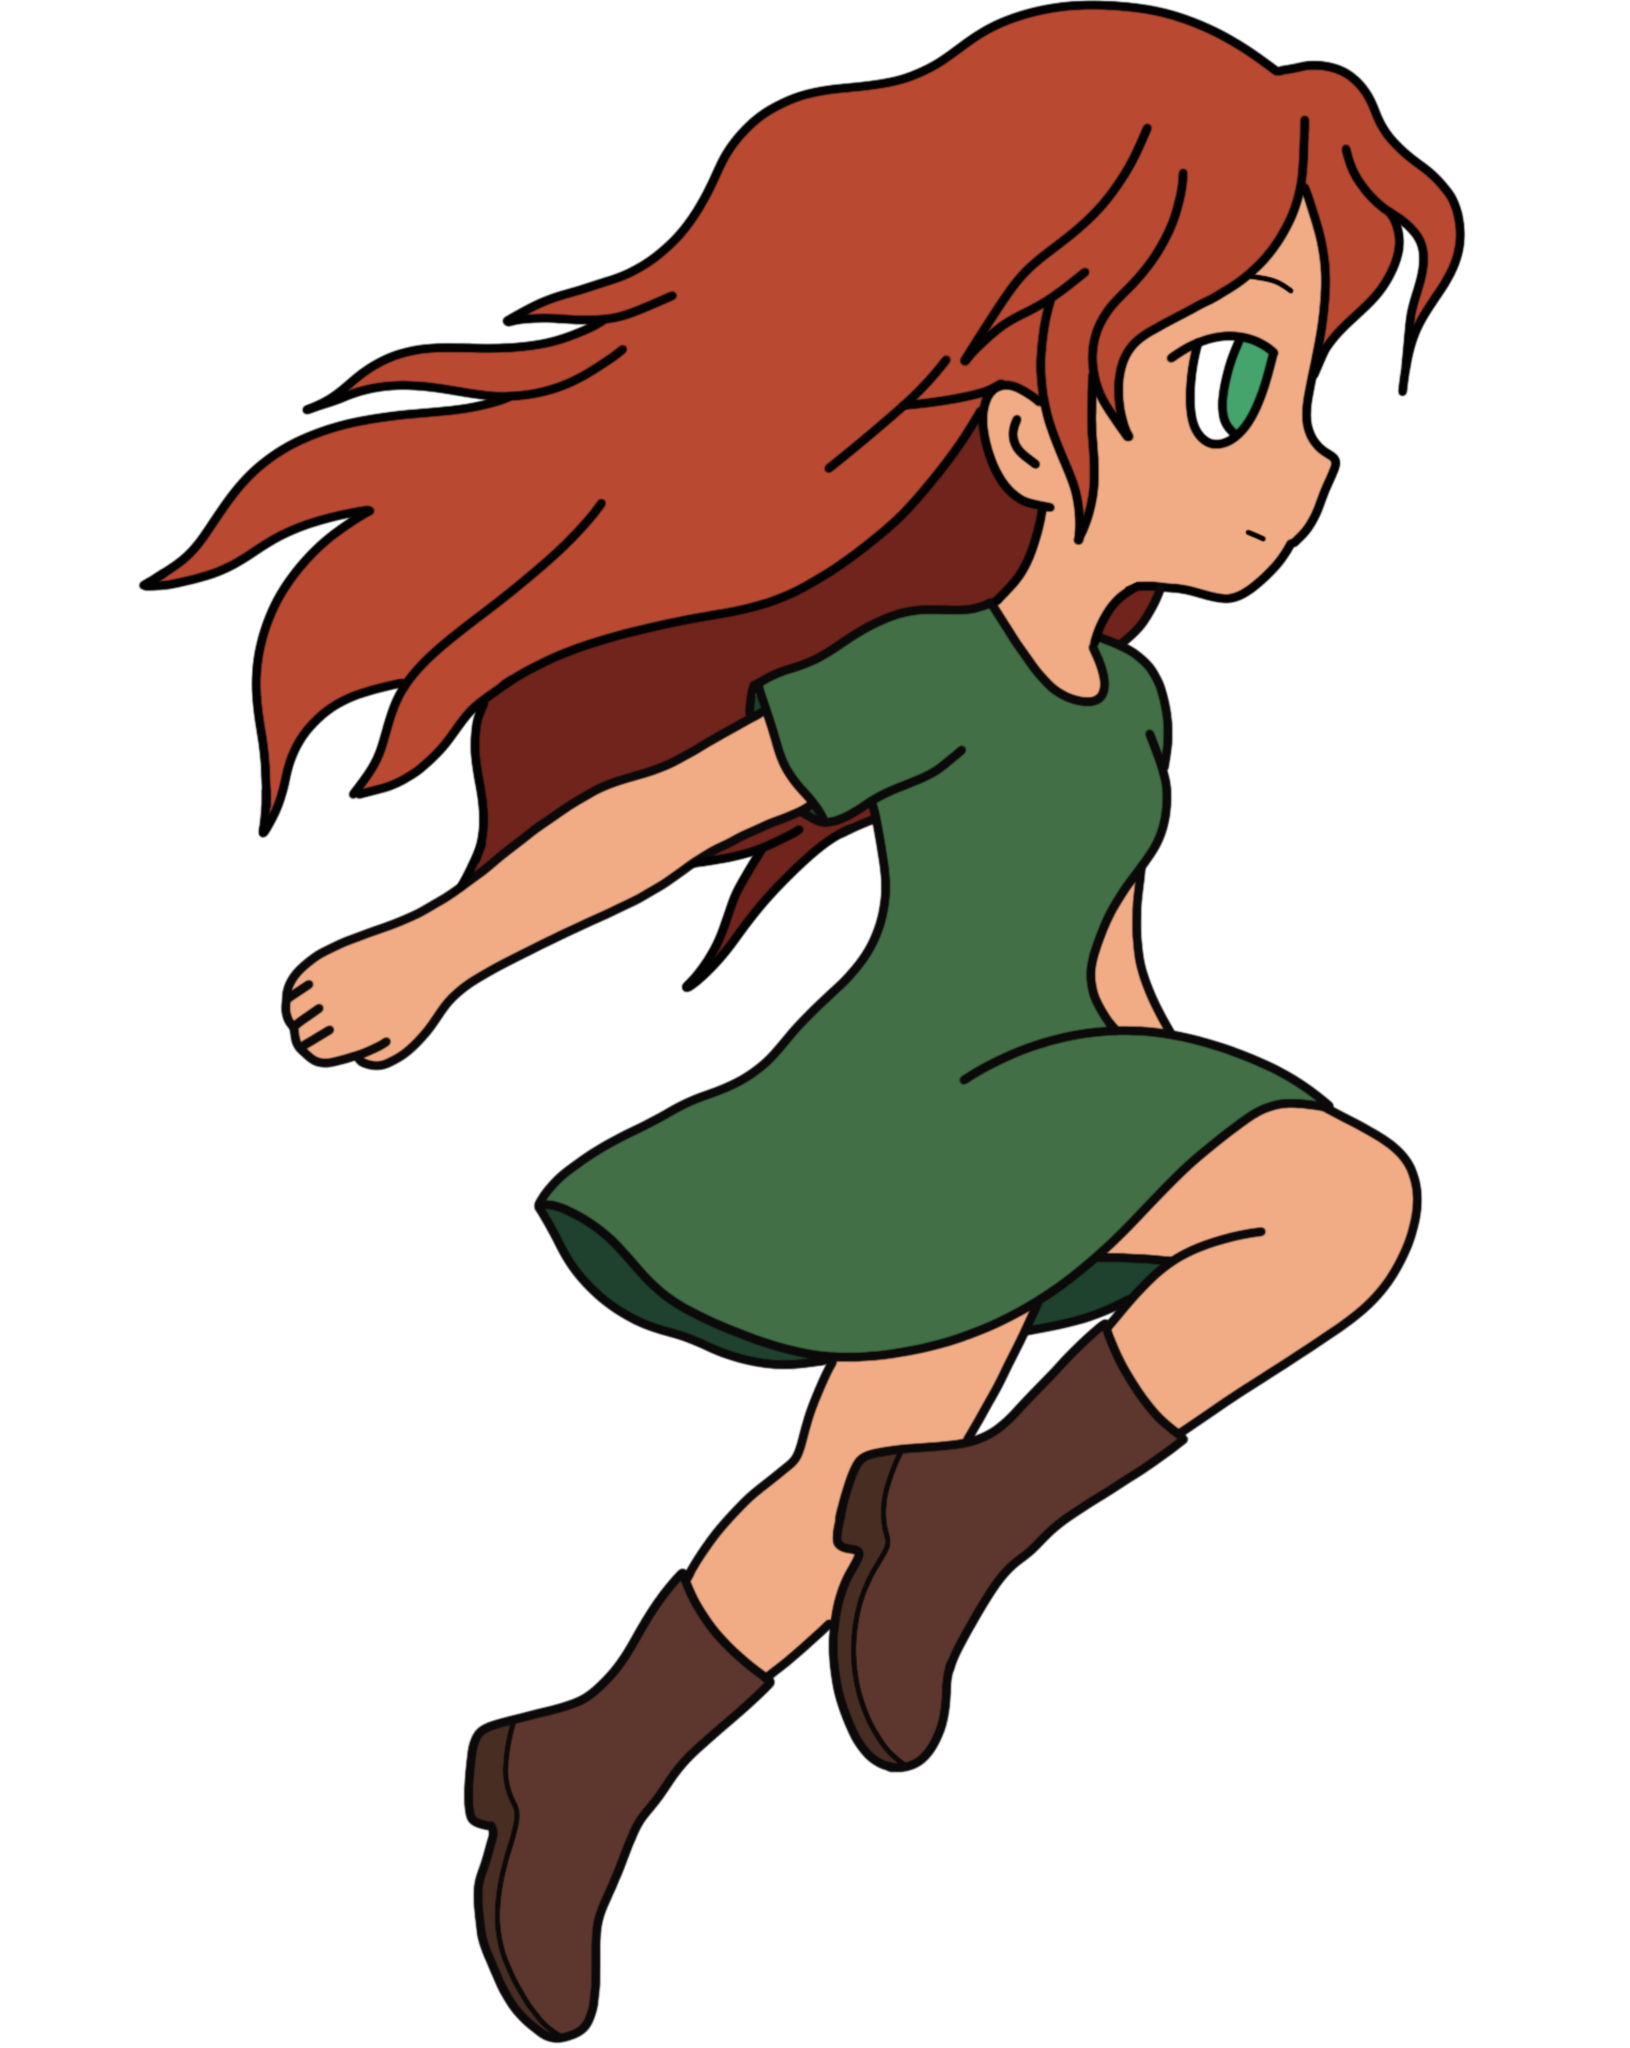
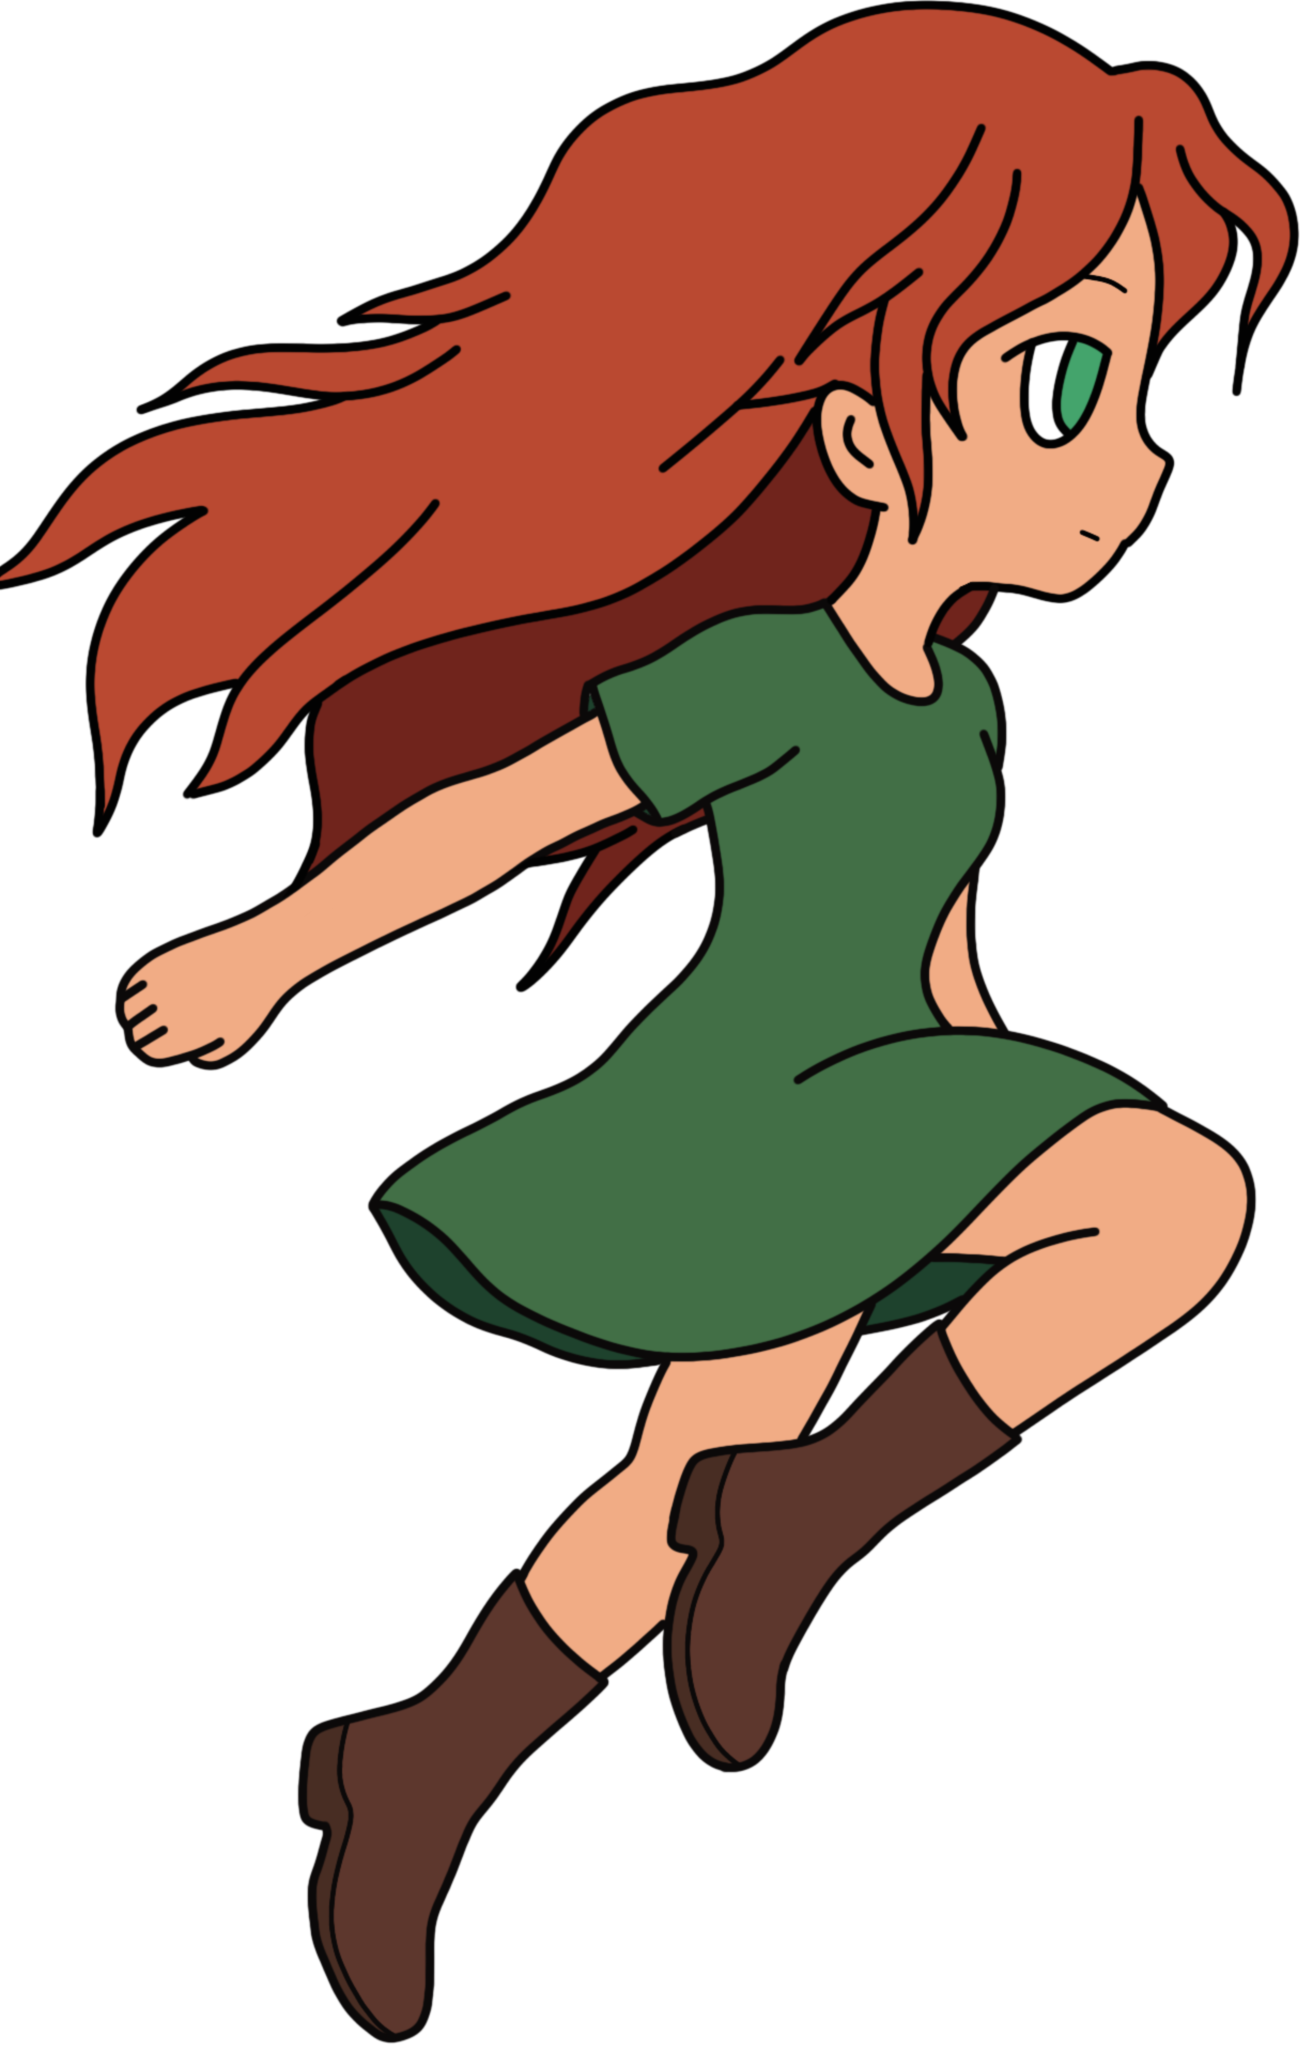
difficulty adjustment

diff --git a/script.js b/script.js
@@ -9,6 +9,7 @@ const JUMP_FORCE = -18;
 // GAME
 let gameSpeed = 6;
 let score = 0;
+let difficulty = 1;
 let gameOver = false;
 let isPaused = false;
 let obstacleTimer = 0;
@@ -20,7 +21,7 @@ let obstMaxInterval = 120;  // frame
 const player = {
     x: 80,
     y: GROUND_Y - 100,
-    w: 72,
+    w: 60,
     h: 100,
     vy: 0,
     grounded: true,
@@ -252,8 +253,11 @@ function rectsCollide(a, b) {
 }
 
 function updateDifficulty() {
+    difficulty += 0.000001;
     score += 0.1;
-    gameSpeed += score / 100000;
+    console.log(difficulty);
+    gameSpeed += difficulty * 0.0015;
+    obstacleInterval /= difficulty * 1.0005;
 }
 
 
@@ -439,4 +443,7 @@ window.addEventListener("resize", resizeCanvas);
     resizeCanvas();
     loop();
 })();
+
+
+
 
